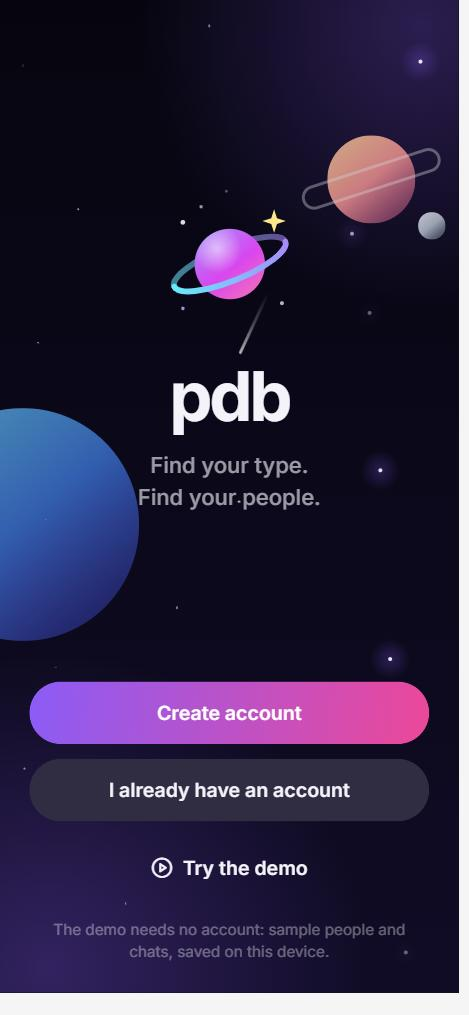
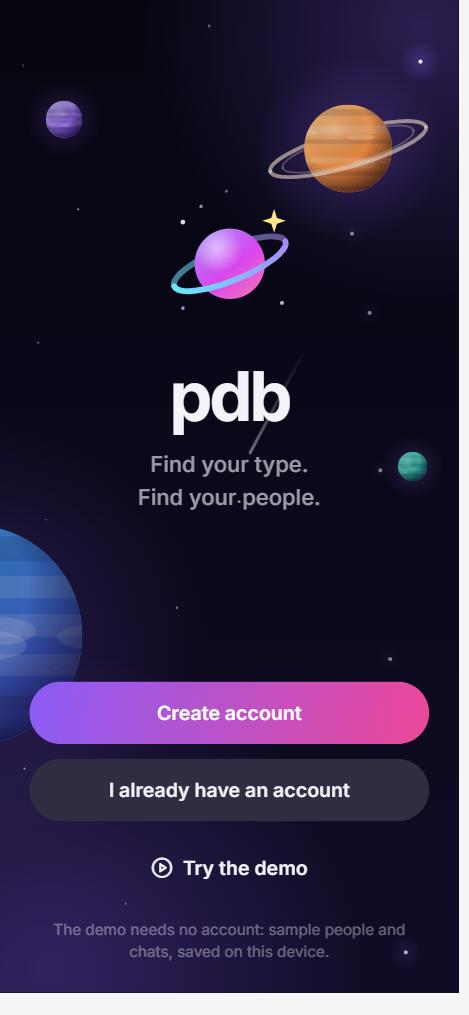
Layer the sky: gradient, stars and shooting stars, spinning planets
Planets now spin on their own axis instead of orbiting (no moon), the ringed
planet gets a clean tilted ring, and the bigger stars twinkle at random.

diff --git a/artifacts/mobile/src/components/cosmic/CosmicBackground.tsx b/artifacts/mobile/src/components/cosmic/CosmicBackground.tsx
@@ -1,15 +1,16 @@
 import React, { memo, useEffect, useMemo, useRef } from "react";
 import { Animated, Dimensions, Easing, StyleSheet, View } from "react-native";
 import { LinearGradient } from "expo-linear-gradient";
-import Svg, { Circle, Defs, RadialGradient, Stop } from "react-native-svg";
+import Svg, { Circle, Defs, Ellipse, Path, RadialGradient, Rect, Stop } from "react-native-svg";
 import { useTheme } from "@/theme/ThemeProvider";
 
-// The space backdrop. It sits quietly BEHIND the interface:
-//   - a tinted night-sky gradient and soft nebula glows
-//   - 21 stars spread across the whole sky: tiny dots, bigger dots, and a few
-//     that twinkle and glow
-//   - a couple of stars slowly falling diagonally, with their tail trailing behind
-//   - on the welcome screen only: planets slowly orbiting (and a moon)
+// The space backdrop, built as clear layers (back to front). The interface (text,
+// buttons) is drawn above all of them:
+//   1. a tinted night-sky gradient with soft nebula glows
+//   2. 21 stars spread over the whole sky, plus a couple of shooting stars that
+//      cross it diagonally, top to bottom, tail trailing behind
+//   3. (welcome screen only) four planets, spaced apart; the two big ones spin
+//      slowly on their own axis
 // Everything is slow on purpose and is decoration only (it never takes touches).
 //   full    welcome screen and splash
 //   starry  behind forms: same stars, no planets
@@ -83,57 +84,88 @@ function useBreath(duration: number, delay: number) {
   return value;
 }
 
+// A bigger dot: it twinkles at random, resting dim for a few seconds, flaring with
+// a soft glow, then settling again. Each star keeps its own random rhythm.
+function BigStar({ spec, k }: { spec: StarSpec; k: number }) {
+  const t = useRef(new Animated.Value(0)).current;
+  useEffect(() => {
+    let alive = true;
+    const next = () => {
+      Animated.sequence([
+        Animated.delay(1200 + Math.random() * 6500),
+        Animated.timing(t, { toValue: 1, duration: 900 + Math.random() * 900, easing: Easing.inOut(Easing.sin), useNativeDriver: true }),
+        Animated.timing(t, { toValue: 0, duration: 1400 + Math.random() * 1400, easing: Easing.inOut(Easing.sin), useNativeDriver: true }),
+      ]).start(({ finished }) => finished && alive && next());
+    };
+    next();
+    return () => {
+      alive = false;
+      t.stopAnimation();
+    };
+  }, [t]);
+
+  const s = spec.size;
+  return (
+    <View pointerEvents="none" style={{ position: "absolute", left: `${spec.x}%`, top: `${spec.y}%`, width: 0, height: 0 }}>
+      <Animated.View
+        style={{
+          position: "absolute",
+          left: -s * 4,
+          top: -s * 4,
+          opacity: t.interpolate({ inputRange: [0, 1], outputRange: [0.15 * k, k] }),
+          transform: [{ scale: t.interpolate({ inputRange: [0, 1], outputRange: [0.8, 1.35] }) }],
+        }}
+      >
+        <Glow color="#D8D2FF" alpha={0.55} size={s * 8} style={{ position: "relative" }} />
+      </Animated.View>
+      <Animated.View
+        style={{
+          position: "absolute",
+          left: -s / 2,
+          top: -s / 2,
+          width: s,
+          height: s,
+          borderRadius: s,
+          backgroundColor: "#FFFFFF",
+          opacity: t.interpolate({ inputRange: [0, 1], outputRange: [0.5 * k, k] }),
+        }}
+      />
+    </View>
+  );
+}
+
 const Stars = memo(function Stars({ variant }: { variant: SkyVariant }) {
   const specs = useMemo(makeStars, []);
-  // Slow: a star takes 4 to 8 seconds to brighten and fade.
+  // The smaller dots breathe gently on shared loops; the bigger ones twinkle on their own.
   const loops = [useBreath(4200, 0), useBreath(5600, 900), useBreath(6800, 1800), useBreath(8000, 2700)];
   const k = STAR_BRIGHTNESS[variant];
 
   return (
     <>
       {specs.map((s) => {
-        const t = loops[s.loop];
+        if (s.glow) return <BigStar key={s.id} spec={s} k={k} />;
         const base = s.opacity * k;
-        const opacity = t.interpolate({ inputRange: [0, 1], outputRange: [base * 0.3, base] });
+        const opacity = loops[s.loop].interpolate({ inputRange: [0, 1], outputRange: [base * 0.35, base] });
         return (
-          <View key={s.id} pointerEvents="none" style={{ position: "absolute", left: `${s.x}%`, top: `${s.y}%`, width: 0, height: 0 }}>
-            {s.glow && (
-              // soft halo that swells and fades with the star
-              <Animated.View
-                style={{
-                  position: "absolute",
-                  left: -s.size * 4,
-                  top: -s.size * 4,
-                  opacity: t.interpolate({ inputRange: [0, 1], outputRange: [0, k] }),
-                  transform: [{ scale: t.interpolate({ inputRange: [0, 1], outputRange: [0.75, 1.3] }) }],
-                }}
-              >
-                <Glow color="#D8D2FF" alpha={0.55} size={s.size * 8} style={{ position: "relative" }} />
-              </Animated.View>
-            )}
-            <Animated.View
-              style={{
-                position: "absolute",
-                left: -s.size / 2,
-                top: -s.size / 2,
-                width: s.size,
-                height: s.size,
-                borderRadius: s.size,
-                backgroundColor: "#FFFFFF",
-                opacity,
-              }}
-            />
-          </View>
+          <Animated.View
+            key={s.id}
+            pointerEvents="none"
+            style={{ position: "absolute", left: `${s.x}%`, top: `${s.y}%`, width: s.size, height: s.size, marginLeft: -s.size / 2, marginTop: -s.size / 2, borderRadius: s.size, backgroundColor: "#FFFFFF", opacity }}
+          />
         );
       })}
     </>
   );
 });
 
-// A star that slowly slides down and a little to the left, tail trailing up behind
-// it, then waits and starts again.
+// A shooting star: a short bright streak that crosses the sky diagonally, top to
+// bottom and a bit sideways (28 degrees off vertical, heading down-left). The head
+// leads and the tail fades out behind it, above and to the right. Then it waits.
+const FALL_ANGLE = 28;
+const FALL_TAN = Math.tan((FALL_ANGLE * Math.PI) / 180);
+
 function FallingStar({ left, delay, duration, brightness }: { left: string; delay: number; duration: number; brightness: number }) {
-  const { height } = Dimensions.get("window");
+  const width = Math.min(Dimensions.get("window").width, 440);
   const p = useRef(new Animated.Value(0)).current;
   useEffect(() => {
     const loop = Animated.loop(
@@ -148,87 +180,125 @@ function FallingStar({ left, delay, duration, brightness }: { left: string; dela
     return () => loop.stop();
   }, [p, delay, duration]);
 
-  const travel = height * 0.5;
-  // Direction of travel: mostly down, a little left (about 25 degrees off vertical).
-  const translateX = p.interpolate({ inputRange: [0, 1], outputRange: [0, -travel * 0.42] });
-  const translateY = p.interpolate({ inputRange: [0, 1], outputRange: [0, travel * 0.9] });
-  const opacity = p.interpolate({ inputRange: [0, 0.12, 0.7, 1], outputRange: [0, brightness, brightness * 0.7, 0] });
+  const dx = width * 0.55;
+  const dy = dx / FALL_TAN;
+  const translateX = p.interpolate({ inputRange: [0, 1], outputRange: [0, -dx] });
+  const translateY = p.interpolate({ inputRange: [0, 1], outputRange: [0, dy] });
+  const opacity = p.interpolate({ inputRange: [0, 0.1, 0.65, 1], outputRange: [0, brightness, brightness * 0.8, 0] });
 
   return (
     <Animated.View
       pointerEvents="none"
-      style={{ position: "absolute", left: left as `${number}%`, top: "3%", opacity, transform: [{ translateX }, { translateY }, { rotate: "115deg" }] }}
+      style={{ position: "absolute", left: left as `${number}%`, top: "2%", opacity, transform: [{ translateX }, { translateY }, { rotate: `${90 + FALL_ANGLE}deg` }] }}
     >
-      {/* the bright head is at the right end, which points down-left; the tail fades back up */}
-      <LinearGradient colors={["rgba(255,255,255,0)", "rgba(255,255,255,0.35)", "#FFFFFF"]} start={{ x: 0, y: 0 }} end={{ x: 1, y: 0 }} style={{ width: 54, height: 2, borderRadius: 2 }} />
+      {/* the bright head is the right end, pointing down-left; the tail fades back up */}
+      <LinearGradient colors={["rgba(255,255,255,0)", "rgba(255,255,255,0.4)", "#FFFFFF"]} start={{ x: 0, y: 0 }} end={{ x: 1, y: 0 }} style={{ width: 96, height: 2, borderRadius: 2 }} />
     </Animated.View>
   );
 }
 
 // -------------------------------------------------------------- planets
 
-// A shaded planet (optionally ringed), centred on (0, 0) of its parent.
-function Planet({ size, colors, ring }: { size: number; colors: [string, string]; ring?: boolean }) {
-  return (
-    <View style={{ position: "absolute", left: -size / 2, top: -size / 2, width: size, height: size }}>
-      <View style={{ width: size, height: size, borderRadius: size / 2, overflow: "hidden" }}>
-        <LinearGradient colors={colors} start={{ x: 0.1, y: 0 }} end={{ x: 0.9, y: 1 }} style={StyleSheet.absoluteFill} />
-        <LinearGradient
-          colors={["rgba(255,255,255,0.28)", "rgba(255,255,255,0)", "rgba(0,0,12,0.6)"]}
-          start={{ x: 0.2, y: 0.1 }}
-          end={{ x: 0.9, y: 0.95 }}
-          style={StyleSheet.absoluteFill}
-        />
-      </View>
-      {ring && (
-        <View
-          style={{
-            position: "absolute",
-            left: -size * 0.32,
-            top: size * 0.36,
-            width: size * 1.64,
-            height: size * 0.28,
-            borderRadius: size,
-            borderWidth: Math.max(2, size * 0.035),
-            borderColor: "rgba(255,255,255,0.4)",
-            transform: [{ rotate: "-18deg" }],
-          }}
-        />
-      )}
-    </View>
-  );
-}
+const RING_TILT = "-16deg";
 
-interface OrbitProps {
-  // Where the orbit is centred: the screen (pixels or percent), or, when nested,
-  // relative to the parent body.
-  x: number | `${number}%`;
-  y: number | `${number}%`;
-  radius: number;
-  // Seconds for one full revolution (keep it long: this should barely seem to move).
-  seconds: number;
+// A planet is a flat disc made to look like a sphere: its surface (bands and
+// storms) lives on a strip that slides sideways behind a fixed soft shading, so
+// sliding it slowly reads as the planet turning on its axis.
+function Planet({
+  x,
+  y,
+  size,
+  colors,
+  ring,
+  spinSeconds,
+  seed,
+  opacity = 1,
+}: {
+  x: `${number}%`;
+  y: `${number}%`;
+  size: number;
+  colors: [string, string];
+  ring?: boolean;
+  spinSeconds?: number;
+  seed: number;
   opacity?: number;
-  // What travels around: its own centre sits on the orbit path. A body can carry
-  // another <Orbit> inside it, e.g. a moon, which then follows it around.
-  children: React.ReactNode;
-}
-
-// Carries its children slowly round a circle. The children are turned back
-// against the rotation so they stay upright and their shading doesn't spin.
-function Orbit({ x, y, radius, seconds, opacity = 1, children }: OrbitProps) {
-  const t = useRef(new Animated.Value(0)).current;
+}) {
+  const turn = useRef(new Animated.Value(0)).current;
   useEffect(() => {
-    const loop = Animated.loop(Animated.timing(t, { toValue: 1, duration: seconds * 1000, easing: Easing.linear, useNativeDriver: true }));
+    if (!spinSeconds) return;
+    const loop = Animated.loop(Animated.timing(turn, { toValue: 1, duration: spinSeconds * 1000, easing: Easing.linear, useNativeDriver: true }));
     loop.start();
     return () => loop.stop();
-  }, [t, seconds]);
-  const around = t.interpolate({ inputRange: [0, 1], outputRange: ["0deg", "360deg"] });
-  const back = t.interpolate({ inputRange: [0, 1], outputRange: ["0deg", "-360deg"] });
+  }, [turn, spinSeconds]);
+
+  const surface = useMemo(() => {
+    const rand = seeded(seed);
+    const bands = Array.from({ length: 6 }, (_, i) => ({ y: ((i + 0.3 + rand() * 0.4) / 6) * size, h: size * (0.05 + rand() * 0.07), light: rand() > 0.5 }));
+    const spots = Array.from({ length: 4 }, () => ({ x: rand() * size, y: size * (0.2 + rand() * 0.6), rx: size * (0.08 + rand() * 0.1), ry: size * (0.03 + rand() * 0.04) }));
+    return { bands, spots };
+  }, [seed, size]);
+
+  const ringW = size * 2;
+  const ringH = size * 0.7;
+  const rx = size * 0.92;
+  const ry = size * 0.2;
+  const cx = ringW / 2;
+  const cy = ringH / 2;
+  const sw = Math.max(2, size * 0.045);
+  // The ring is one ellipse drawn in two halves: the far half behind the planet, the near half in front.
+  const arc = (front: boolean, r: number, q: number) => `M ${cx - r} ${cy} A ${r} ${q} 0 0 ${front ? 0 : 1} ${cx + r} ${cy}`;
+  const ringHalf = (front: boolean) => (
+    <View style={{ position: "absolute", left: -ringW / 2, top: -ringH / 2, width: ringW, height: ringH, transform: [{ rotate: RING_TILT }] }}>
+      <Svg width={ringW} height={ringH}>
+        <Path d={arc(front, rx, ry)} stroke="rgba(255,236,214,0.6)" strokeWidth={sw} fill="none" strokeLinecap="round" />
+        <Path d={arc(front, rx * 0.84, ry * 0.84)} stroke="rgba(255,236,214,0.28)" strokeWidth={sw * 0.5} fill="none" strokeLinecap="round" />
+      </Svg>
+    </View>
+  );
 
   return (
-    <Animated.View pointerEvents="none" style={{ position: "absolute", left: x, top: y, width: 0, height: 0, opacity, transform: [{ rotate: around }] }}>
-      <Animated.View style={{ position: "absolute", left: radius, top: 0, width: 0, height: 0, transform: [{ rotate: back }] }}>{children}</Animated.View>
-    </Animated.View>
+    <View pointerEvents="none" style={{ position: "absolute", left: x, top: y, width: 0, height: 0, opacity }}>
+      <Glow color={colors[0]} alpha={0.2} size={size * 2.1} style={{ left: -size * 1.05, top: -size * 1.05 }} />
+      {ring && ringHalf(false)}
+      <View style={{ position: "absolute", left: -size / 2, top: -size / 2, width: size, height: size, borderRadius: size / 2, overflow: "hidden" }}>
+        <LinearGradient colors={colors} start={{ x: 0.1, y: 0 }} end={{ x: 0.9, y: 1 }} style={StyleSheet.absoluteFill} />
+        <Animated.View
+          style={{
+            position: "absolute",
+            left: 0,
+            top: 0,
+            width: size * 2,
+            height: size,
+            transform: [{ translateX: turn.interpolate({ inputRange: [0, 1], outputRange: [0, -size] }) }],
+          }}
+        >
+          <Svg width={size * 2} height={size}>
+            {[0, size].map((o) => (
+              <React.Fragment key={o}>
+                {surface.bands.map((b, i) => (
+                  <Rect key={`b${i}`} x={o} y={b.y} width={size} height={b.h} fill={b.light ? "#FFFFFF" : "#1B1033"} opacity={b.light ? 0.16 : 0.14} />
+                ))}
+                {surface.spots.map((sp, i) => (
+                  <Ellipse key={`s${i}`} cx={o + sp.x} cy={sp.y} rx={sp.rx} ry={sp.ry} fill="#FFFFFF" opacity={0.2} />
+                ))}
+              </React.Fragment>
+            ))}
+          </Svg>
+        </Animated.View>
+        {/* fixed shading: lit from the top left, darker towards the far edge */}
+        <Svg width={size} height={size} style={StyleSheet.absoluteFill}>
+          <Defs>
+            <RadialGradient id="sphere" cx="35%" cy="30%" r="80%">
+              <Stop offset="0" stopColor="#FFFFFF" stopOpacity={0.22} />
+              <Stop offset="0.5" stopColor="#000010" stopOpacity={0} />
+              <Stop offset="1" stopColor="#000010" stopOpacity={0.7} />
+            </RadialGradient>
+          </Defs>
+          <Circle cx={size / 2} cy={size / 2} r={size / 2} fill="url(#sphere)" />
+        </Svg>
+      </View>
+      {ring && ringHalf(true)}
+    </View>
   );
 }
 
@@ -276,25 +346,18 @@ export function CosmicBackground({ variant = "subtle", sky, glow, noStars, child
       {!noStars && (
         <>
           <Stars variant={variant} />
-          {falling >= 1 && <FallingStar left="78%" delay={3500} duration={9000} brightness={k} />}
-          {falling >= 2 && <FallingStar left="46%" delay={11000} duration={10000} brightness={k} />}
+          {falling >= 1 && <FallingStar left="92%" delay={3500} duration={8000} brightness={k} />}
+          {falling >= 2 && <FallingStar left="68%" delay={10000} duration={9000} brightness={k} />}
         </>
       )}
 
       {variant === "full" && (
         <>
-          {/* The big blue planet drifts round a point just off the left edge: one lap in 5 minutes. */}
-          <Orbit x="-4%" y="52%" radius={34} seconds={300} opacity={0.7}>
-            <Planet size={190} colors={["#38BDF8", "#4F46E5"]} />
-          </Orbit>
-
-          {/* The ringed planet circles a point near the top right (4 minutes a lap); its moon goes round it (1.5 minutes). */}
-          <Orbit x="72%" y="17%" radius={34} seconds={240} opacity={0.8}>
-            <Planet size={72} colors={["#FDBA74", "#F472B6"]} ring />
-            <Orbit x={0} y={0} radius={62} seconds={90}>
-              <Planet size={22} colors={["#E2E8F0", "#94A3B8"]} />
-            </Orbit>
-          </Orbit>
+          {/* Four planets, well apart. The big blue one and the ringed orange one spin slowly. */}
+          <Planet x="-6%" y="64%" size={180} colors={["#38BDF8", "#4F46E5"]} spinSeconds={150} seed={7} opacity={0.75} />
+          <Planet x="76%" y="15%" size={72} colors={["#FDC27A", "#F2711C"]} ring spinSeconds={110} seed={3} opacity={0.9} />
+          <Planet x="14%" y="12%" size={30} colors={["#C4B5FD", "#7C3AED"]} seed={5} opacity={0.8} />
+          <Planet x="90%" y="47%" size={24} colors={["#5EEAD4", "#0D9488"]} seed={9} opacity={0.8} />
         </>
       )}
 
